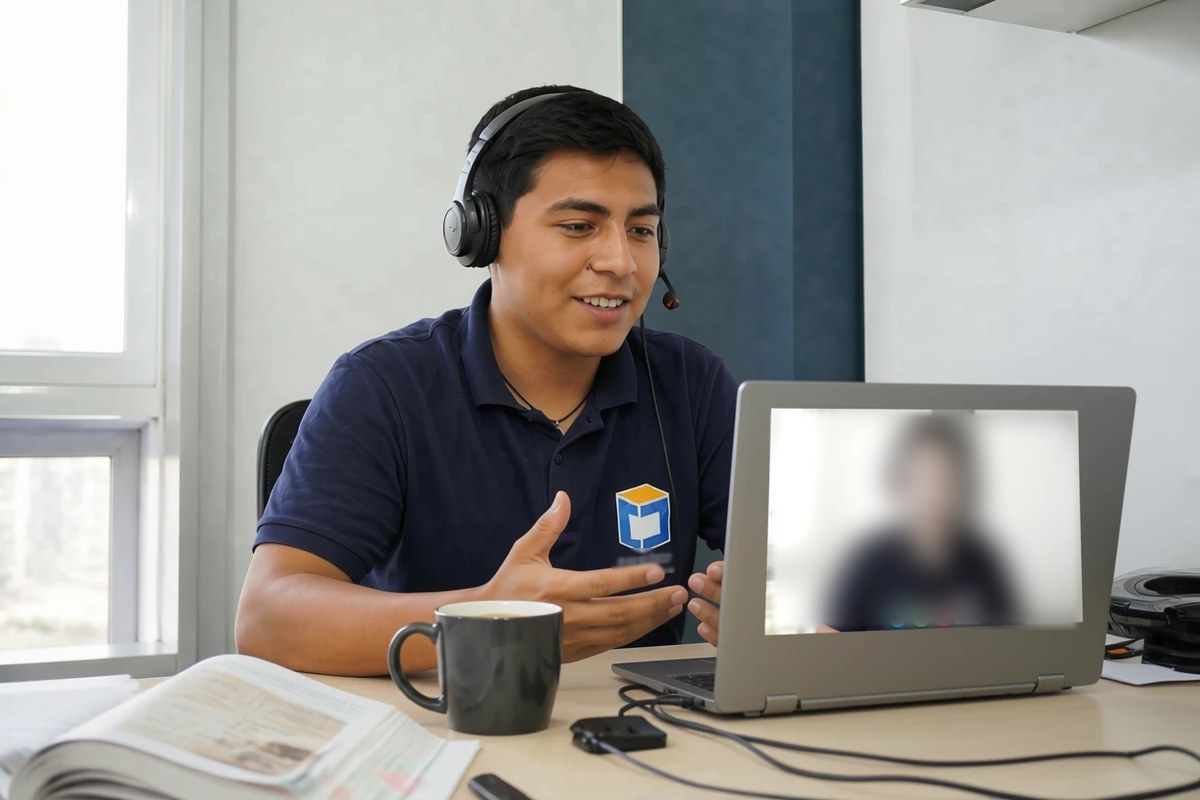
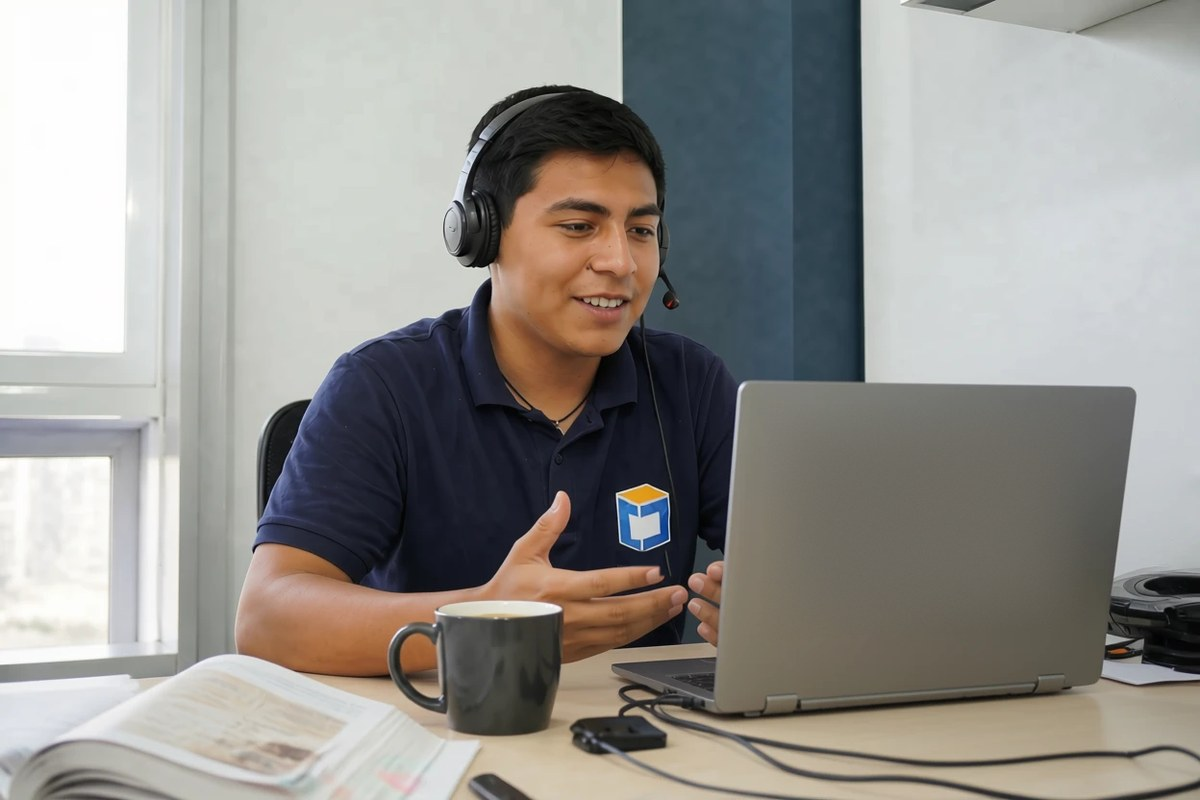
Fotos de asesoría online retocadas para verse naturales
- Maestría (100 % online): asesor del equipo en una asesoría de noche en lugar de la foto de stock; se ve la tapa trasera de la laptop como corresponde
- Tesis (Asesoría online a tu medida): sin pantalla difuminada, ahora se ve la tapa de la laptop, y sin el texto deformado bajo el logo del polo

Changed region(s): [[0.6167, 0.5, 0.925, 0.8125], [0.4933, 0.6875, 0.555, 0.7188]]

diff --git a/src/data/servicePages.ts b/src/data/servicePages.ts
@@ -26,7 +26,7 @@ import letrasImg from '@/assets/images/carreras/letras.jpg';
 import socialesImg from '@/assets/images/carreras/ciencias-sociales.jpg';
 import saludImg from '@/assets/images/carreras/ciencias-de-la-salud.jpg';
 import equipoImg from '@/assets/images/otros/asesores-tesis-peru-cientifica.jpg';
-import onlineAsesoriaImg from '@/assets/images/blog/mujer-con-laptop-en-oficina.jpg';
+import onlineAsesoriaImg from '@/assets/images/tesis/secciones/maestria-online-noche.jpg';
 import tspTrabajoImg from '@/assets/images/otros_servicios/estudios_empiricos/Trabajo-de-suficiencia-profesional.jpg';
 
 export type Point = { title?: string; text: string; id?: string; image?: ImageMetadata; imageAlt?: string; tag?: string; stat?: string; statLabel?: string; logos?: string[]; bullets?: string[]; highlight?: { value: string; text: string } };
@@ -177,7 +177,7 @@ export const servicePages: Record<string, ServicePage> = {
         title: 'Acompañamiento 100 % online y adaptado a tu horario',
         text: ['Trabajamos contigo a distancia, sin importar tu ciudad o universidad. Nuestro equipo multidisciplinario está disponible en horarios flexibles para avanzar a tu ritmo.'],
         image: onlineAsesoriaImg,
-        imageAlt: 'Estudiante de maestría en una asesoría online desde su laptop',
+        imageAlt: 'Asesor de Científica Consultores en una asesoría online de noche',
       },
       {
         kind: 'list',
